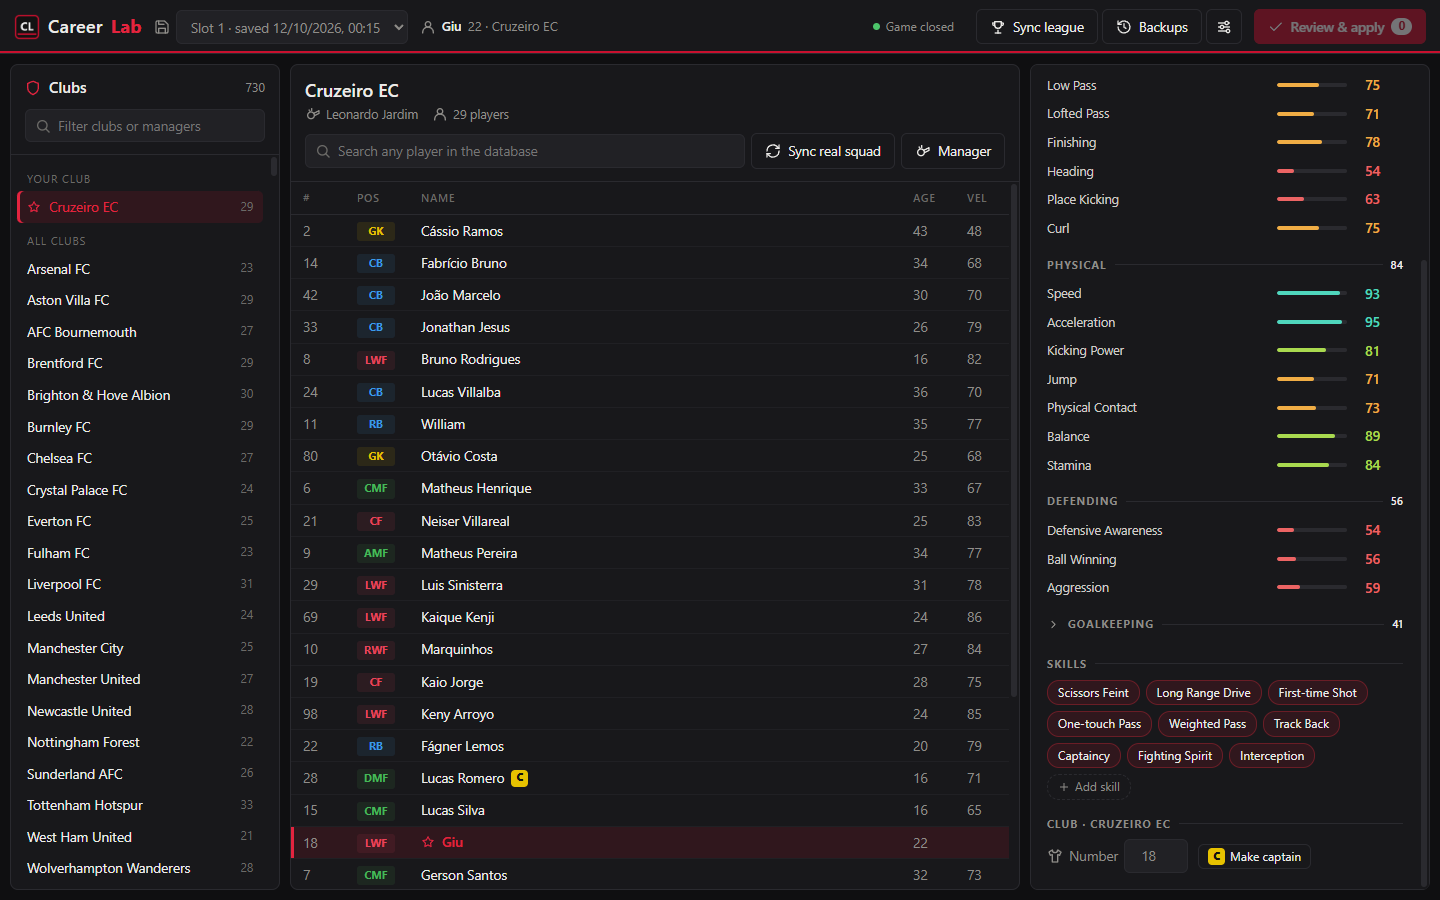
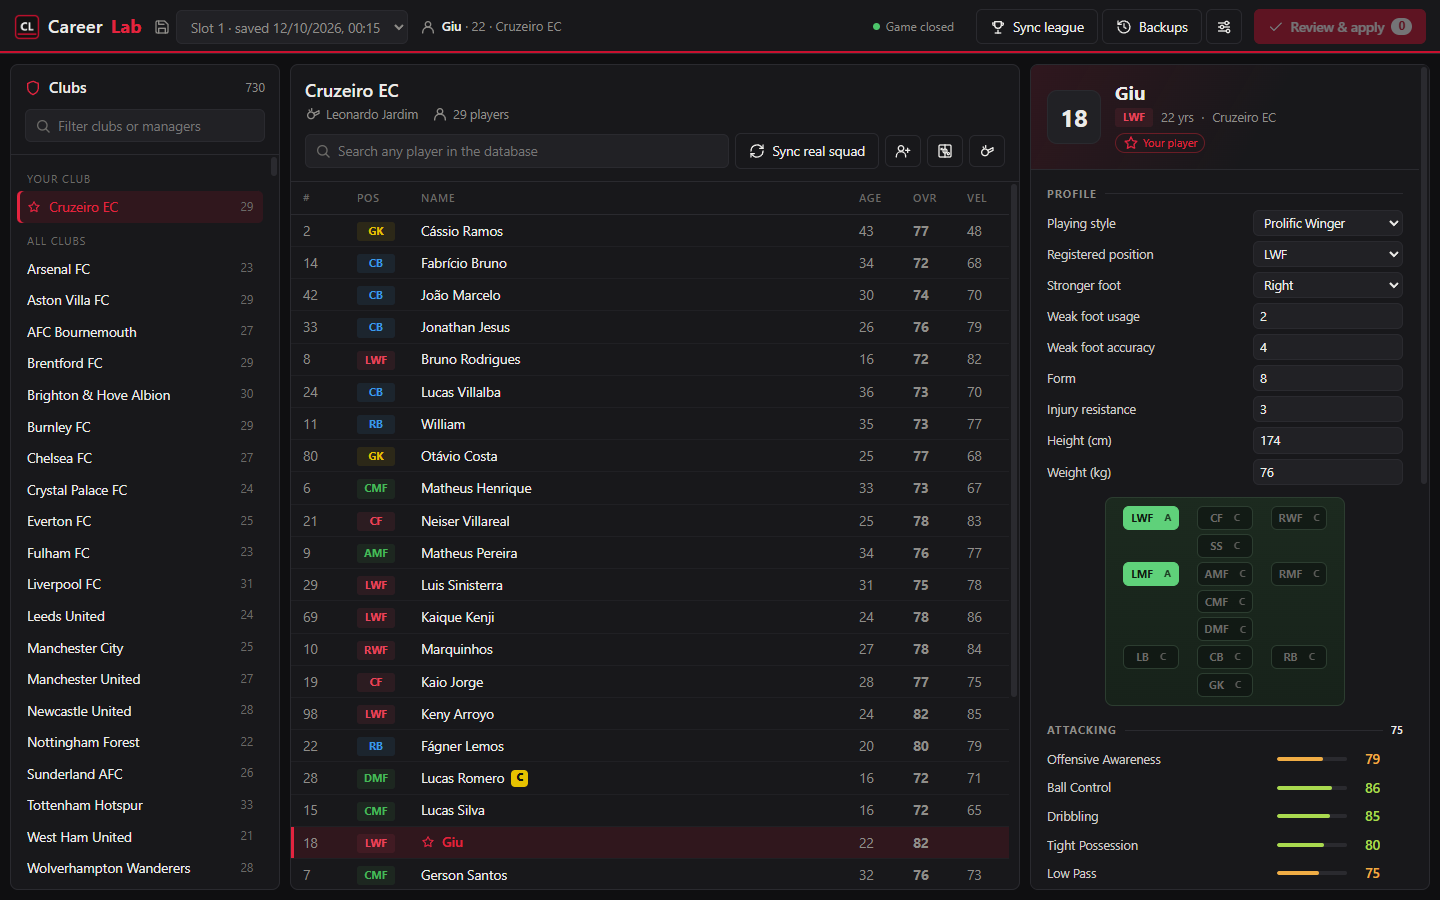
CareerLab 2.0.0: README and screenshots for the new features, changelog, version

diff --git a/app/renderer/app.js b/app/renderer/app.js
@@ -744,7 +744,7 @@ async function openSync(refresh = false, source = syncSource) {
       const cb = el("input", { type: "checkbox", checked });
       it._cb = cb;
       const [main, side] = render(it);
-      g.append(el("div", { className: "sync-row" }, cb, badge(it.position) || "", main, side));
+      g.append(el("div", { className: "sync-row" }, cb, it.position ? badge(it.position) : el("span"), main, side));
     }
     body.append(g);
   };
@@ -754,7 +754,7 @@ async function openSync(refresh = false, source = syncSource) {
   group(t("sync.add"), t("sync.addNote"), syncPlan.add,
     (it) => [el("span", { textContent: it.name }), el("span", { className: "note", textContent: t("sync.freePlayer") })]);
   group(t("sync.create"), t("sync.createNote"), syncPlan.create,
-    (it) => [el("span", { textContent: `${it.name}, ${it.age}` }),
+    (it) => [el("span", { textContent: it.age ? `${it.name}, ${it.age}` : it.name }),
       it.kind === "absent" ? tag(t("sync.absentTag"), "absent") : tag(t("sync.dbTag"), "new")]);
   group(t("sync.release"), t(syncPlan.source === "edit" ? "sync.releaseNoteEdit" : "sync.releaseNote"), syncPlan.release,
     (it) => [el("span", { textContent: it.name }), el("span", { className: "note", textContent: t("sync.becomesFree") })]);

diff --git a/app/renderer/styles.css b/app/renderer/styles.css
@@ -343,3 +343,9 @@ ul:focus, ol:focus, .sync-body:focus, .table-wrap:focus, .detail:focus { outline
   padding: 4px 6px; border-bottom: 1px solid var(--line-soft); font-size: 13px; }
 .free-row .fname { overflow: hidden; text-overflow: ellipsis; white-space: nowrap; }
 .c-ovr { font-weight: 700; font-variant-numeric: tabular-nums; }
+
+/* the squad toolbar keeps the search usable: secondary tools become icons first */
+@media (max-width: 1600px) {
+  #btn-free span, #btn-tactics span, #btn-manager span { display: none; }
+  #btn-free, #btn-tactics, #btn-manager { padding: 7px 9px; }
+}

diff --git a/harness/readme_shots.py b/harness/readme_shots.py
@@ -76,7 +76,7 @@ def main():
         "await row((r) => r.textContent.includes('Matheus Pereira'));")
     p.shot("01-squad-and-player")
 
-    run("await row((r) => r.classList.contains('created')); $('.detail').scrollTop = 9999; await w(300);")
+    run("await row((r) => r.classList.contains('created')); $('.detail').scrollTop = 0; await w(300);")
     p.shot("02-your-player")
 
     run("$('.detail').scrollTop = 0; await club('Aston Villa'); $('#btn-sync').click();"
@@ -95,11 +95,21 @@ def main():
         "const b = document.querySelector('.bk'); if (b) b.open = true; await w(300);")
     p.shot("06-backups")
 
-    run("$('#btn-close-backups').click(); $('#player-search').value = 'Neymar';"
-        "$('#player-search').dispatchEvent(new Event('input')); await w(1500);")
-    p.shot("07-search")
+    run("$('#btn-close-backups').click(); $('#btn-free').click(); await until(() => document.querySelectorAll('.free-row').length > 0);"
+        "$('#free-pos').value = 'CB'; $('#free-pos').dispatchEvent(new Event('change')); await w(300);"
+        "$('#free-age').value = 25; $('#free-age').dispatchEvent(new Event('input')); await w(1500);")
+    p.shot("07-free-agents")
 
-    run("$('#search-results').classList.add('hidden'); $('#player-search').value = '';")
+    run("$('#btn-close-free').click(); $('#btn-sync').click(); await until(() => !/Fetching/.test($('#sync-body').textContent));"
+        "document.querySelector('#sync-source button[data-src=edit]').click(); await w(300);"
+        "await until(() => !/Fetching/.test($('#sync-body').textContent)); await w(600);")
+    p.shot("08-reset-to-database")
+
+    run("document.querySelector('#sync-source button[data-src=efdb]').classList.add('on'); syncSource = 'efdb';"
+        "$('#btn-close-sync').click(); $('#btn-setup').click(); await w(1500);")
+    p.shot("09-settings")
+
+    run("$('#btn-setup-done').click(); await w(300);")
     p.cmd("Emulation.clearDeviceMetricsOverride")
     staged = run("return document.querySelector('#staged-count').textContent;")
     if staged != "0":

diff --git a/engine/fl26/session.py b/engine/fl26/session.py
@@ -151,7 +151,7 @@ class Session:
         if pid >= CREATED_ID_MIN and self.created_base is not None:
             b = self.created_base
             row.update(position=POS_NAMES[created.get(self.c, b, "registred_position")],
-                       age=created.get(self.c, b, "age"))
+                       age=created.get(self.c, b, "age"), rating=self._created_rating(b))
             return row
         i = self.rec_of.get(pid)
         if i is not None:
@@ -160,6 +160,15 @@ class Session:
             row.update(position=POS_NAMES[pos] if pos < 13 else "?", age=A.get(rec, "age"),
                        speed=A.get(rec, "speed"), rating=round(A.overall_estimate(rec)))
         return row
+
+    def _created_rating(self, b):
+        """Your player's estimated overall, same formula as everyone's."""
+        vals = {k: created.get(self.c, b, k) for k in A.ABILITIES if k in created.FIELDS}
+        if created.get(self.c, b, "registred_position") == 0:
+            gk = [v for k, v in vals.items() if k.startswith("gk_")]
+            return round(sum(gk) / len(gk) - 7) if gk else None
+        top = sorted((v for k, v in vals.items() if not k.startswith("gk_")), reverse=True)[:14]
+        return round(sum(top) / len(top)) if top else None
 
     def squad(self, k):
         cl = self.c.club(k)

diff --git a/README.md b/README.md
@@ -13,9 +13,13 @@ doesn't have, edit ratings and skills, change managers, and never lose a career 
   and captains, in one reviewed batch.
 - **Create players FL26 doesn't have** (academy promotions, new signings) with their real
   ratings, age, position, style and nationality, and a lookalike face.
-- **Edit any player**: the 25 abilities, skills, shirt number, captaincy; move or release him.
-- **Edit your own player** (the created character): abilities and skills.
-- **Change a club's manager**, with or without his tactics.
+- **Reset a club to the FL26 database**: put a squad back to the one FL26 starts careers with.
+- **Sign free agents**: browse the players without a club, strongest first, and sign them.
+- **Edit any player**: the 25 abilities, skills, playing style, positions (on a mini pitch),
+  weak foot, form, age, shirt number, captaincy; move or release him.
+- **Edit your own player**: also height, weight, best foot and injury resistance.
+- **Change a club's manager**, with or without his tactics, or **copy another club's tactics**.
+- **Tools**: export squads to CSV; repair the duplicate entries the game creates at season end.
 - **Portuguese or English**, switched with the flags in Settings; updates itself from GitHub Releases.
 - **Safe by design**: nothing is written until you apply, every apply is checked and backed up,
   and the save is never touched while the game is running.
@@ -38,9 +42,12 @@ CareerLab updates itself: when a new version is out it downloads in the backgrou
 ## Using it
 
 **Squads and players.** Pick the career slot at the top, then a club on the left (your club is
-pinned first). Click a player to open his panel: abilities grouped like the game (Ataque,
-Físico, Defesa, Goleiro) with rating bars, skills as chips, shirt number, captaincy, move and
-release. Your own player is marked with a star.
+pinned first). The squad table shows an estimated overall (within about 3 points of the
+game's). Click a player to open his panel: a **profile** (playing style, registered position,
+weak foot, form, age, and a mini pitch where a click cycles each position between C, B and A),
+abilities grouped like the game with rating bars, skills as chips, shirt number, captaincy,
+move and release. For your own player (marked with a star) the profile also has height,
+weight, best foot and injury resistance. Style names are exactly the game's.
 
 ![Your player](docs/screenshots/02-your-player.png)
 
@@ -48,6 +55,8 @@ release. Your own player is marked with a star.
 efootballdb and shows what would change. Untick anything you want to keep as it is. Players
 FL26 lacks are created with their real ratings; players FL26 knows under another ID are
 recognised by name, not duplicated. pesmaster.com is checked as a second opinion.
+The **Tactics** button copies another club's formations and tactics while keeping the
+manager; **Manager** swaps managers, with or without their tactics.
 
 ![Club sync](docs/screenshots/03-club-sync.png)
 
@@ -68,10 +77,22 @@ folder. Each backup says what restoring it would undo, with the full list of edi
 
 ![Backups](docs/screenshots/06-backups.png)
 
-**Search.** The search box finds any player in FL26's database: where he plays in your career,
-or whether he is free. A player the career has never had can be created at the open club.
+**Free agents and search.** *Free agents* lists the players the career knows who are in no
+squad, strongest first, filtered by position, age and name; *Sign* adds them to the open
+club. The search box finds any player in FL26's database, and a player the career has never
+had can be created at the open club.
 
-![Search](docs/screenshots/07-search.png)
+![Free agents](docs/screenshots/07-free-agents.png)
+
+**Reset to the FL26 database.** The club sync dialog has a second source: *FL26 database*
+plans the club back to the squad FL26's own option file gives it, undoing transfers.
+
+![Reset to the database](docs/screenshots/08-reset-to-database.png)
+
+**Settings.** Language (Brazilian Portuguese or English, by flag), game and saves folders,
+the database reader, updates, and the tools: CSV export and duplicate repair.
+
+![Settings](docs/screenshots/09-settings.png)
 
 ## How it works
 

diff --git a/docs/architecture.md b/docs/architecture.md
@@ -26,11 +26,11 @@
 | `crypto.py` | `Save.load/encrypt`: pesXdecrypter ported to Python (MT19937 keystream, numpy). Round trip is byte-identical. |
 | `career.py` | The club squad table (40 slots per club block), handle/ID pairs, `release`, `add`, `club_of`, namespaces |
 | `registry.py` | The player registry (zlib section, 156-byte records); `append`, `commit` recompresses and fixes the directory |
-| `attributes.py` | Bit map of a registry record: abilities, positions, skills, style, age, form, weak foot; efootballdb style mapping |
+| `attributes.py` | Bit map of a registry record: abilities, positions, skills, style, age, form, weak foot; efootballdb style mapping; `overall_estimate` |
 | `created.py` | The user's created player (a full runtime-layout struct, 125 fields; registry record 0 is only a mirror) |
 | `managers.py` | Per-club manager records: coach, tactics presets, stored lineup, captain; slot remapping on release/add |
 | `database.py` | FL26's base database from the Sider dump (names, teams, assignments) + option-file names; club identification |
-| `editfile.py` | `EDIT00000000` (option file) player table: rename a spare player |
+| `editfile.py` | `EDIT00000000` (option file): player table (rename a spare player) and the squad table (`squads()`, used by reset-to-database) |
 | `profiles.py` | Build a registry record from efootballdb data; spare-ID picking; face donors |
 | `efdb.py` | efootballdb client (team squads, players, league list), cached in `%LOCALAPPDATA%\CareerLab\efdb-cache` |
 | `pesmaster.py` | pesmaster.com squad page parser, the second opinion in club sync |
@@ -50,7 +50,7 @@
    if spare IDs were lent, then the career; both through `safewrite` with a description from
    `describe()`. `spares.json` is updated only after the write succeeds.
 
-Op kinds: `move release add new attr created manager_swap manager_set shirt renumber captain`.
+Op kinds: `move release add new attr created manager_swap manager_set tactics_copy shirt renumber captain dedupe`.
 `label` (human text) and `source` ("Cruzeiro EC sync") are kept with the op and end up in the
 backup description; keys in `Session.UI_ONLY` are stripped.
 

diff --git a/CHANGELOG.md b/CHANGELOG.md
@@ -1,6 +1,6 @@
 # Changelog
 
-## 2.0.0 — unreleased
+## 2.0.0 — 2026-10-12
 
 - **Profile editor**: playing style, registered position, position ratings on a mini pitch
   (click to cycle C/B/A), weak foot, form and age for any player; height, weight, best foot
@@ -15,6 +15,8 @@
 - **Export squads to CSV** (this club or all clubs) from Settings → Tools.
 - **Repair duplicate entries**: the game lists some players twice at season rollover; one
   click keeps a single entry (and fixes the manager's lineup/captain references).
+- UI review: the squad toolbar keeps the search usable on narrower windows, dialogs scroll
+  when taller than the window, unknown values are no longer shown as "null".
 
 ## 1.0.1 — 2026-10-12
 
